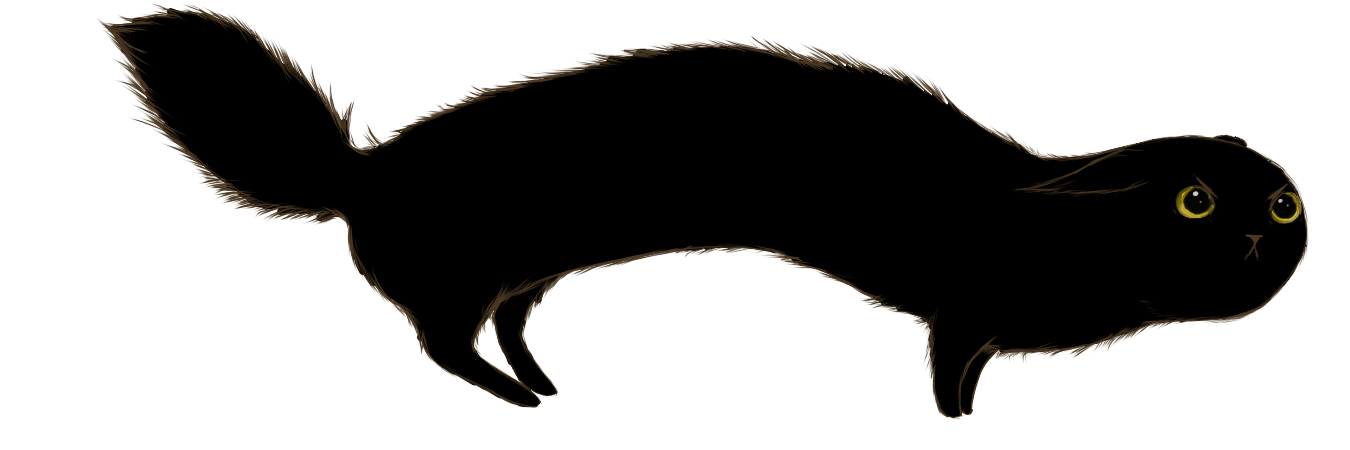
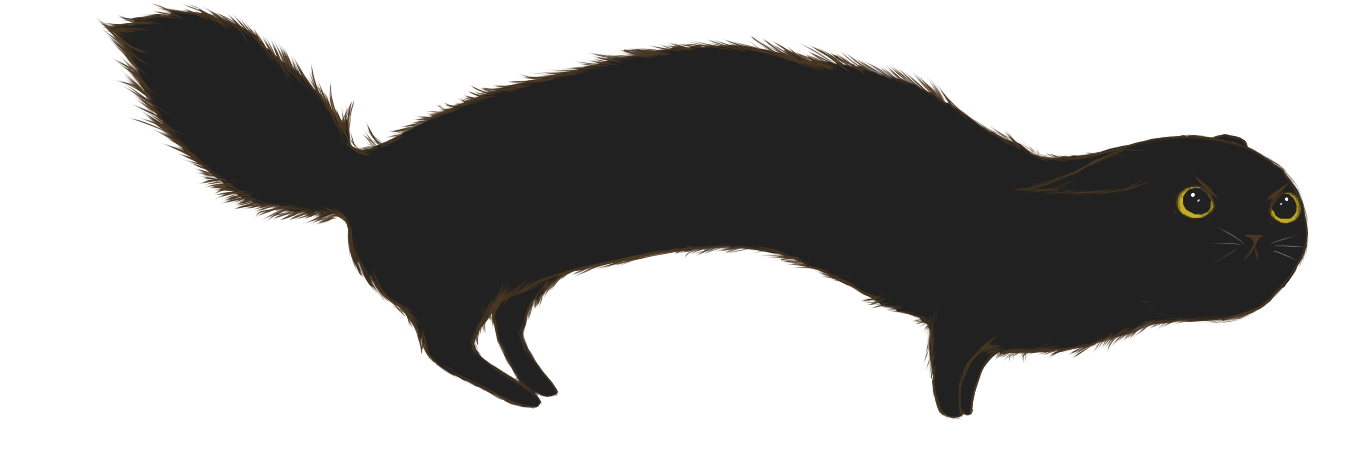
Added all cat images and extra effects and styles

diff --git a/src/main/resources/static/web/css/style.css b/src/main/resources/static/web/css/style.css
@@ -1,4 +1,5 @@
 @import url('https://fonts.googleapis.com/css?family=Poppins');
+@import url('https://fonts.googleapis.com/css?family=Delius&display=swap');
 
 body{
     font-family: 'Poppins', sans-serif;
@@ -29,7 +30,7 @@ body{
 }
 
 .bg-orange{
-    background-color: rgb(249, 210, 167)
+    background-color: rgb(255, 186, 158)
 }
 
 .bg-orange-primary{
@@ -41,7 +42,7 @@ body{
 }
 
 .text-orange-primary{
-    color: rgb(249, 165, 134) !important
+    color: rgb(255, 140, 102) !important
 }
 
 .game-bg{
@@ -76,18 +77,18 @@ body{
 
     overflow: hidden;
 
-    -webkit-animation: game-bg-anim 3s infinite;
-    animation: game-bg-anim 3s infinite;
+    -webkit-animation: game-bg-anim 2s infinite;
+    animation: game-bg-anim 2s infinite;
     animation-direction: alternate;
 }
 
 @keyframes game-bg-anim{
     0%{
-        background-color: rgb(249, 210, 167);
+        background-color: rgb(255, 186, 158);
     }
 
     100%{
-        background-color: rgb(255, 201, 143);
+        background-color: rgb(255, 197, 174);
     }
 }
 
@@ -251,12 +252,12 @@ body{
 }
 
 .ally-grid, .enemy-grid{
-    border: solid #ffa580 20px;
+    border: solid #ffa580 10px;
     border-radius: 20px;
     color: white;
     height: auto;
-    max-width: 535px;
-    min-width: 515px;
+    max-width: 515px;
+min-width: 515px;
     position: relative;
 
     transition: all 0.2s ease-in;
@@ -289,9 +290,8 @@ body{
     box-sizing: border-box;
     min-width: 45px;
     min-height: 45px;
-    border: 1px solid #ffffff;
+    border: 1px solid #ffffff3b;
     vertical-align: middle;
-    font-weight: bold;
     text-align: center;
     align-items: center;
     background-color: #f7936f;
@@ -301,11 +301,41 @@ body{
     margin: auto
 }
 .grid-marks{
-    background-color: #ff4502;
+    background-color: rgb(255, 140, 102);
+    font-family: 'Delius', cursive;
+    font-size: 20px;
 }
 
 .salvoed{
-    background-color: #ff7e7e;
+    background-color: #ffb07e;
+}
+
+.hit-anim{
+    animation: hit-animation 0.2s;
+}
+
+.miss-anim{
+    animation: miss-animation 0.2s;
+}
+
+@keyframes hit-animation{
+    0%{
+        background-color: white
+    }
+    
+    100%{
+        background-color: #b90000;
+    }
+
+}
+@keyframes miss-animation{
+    0%{
+        background-color: #ffceaf;
+    }
+
+    100%{
+        background-color: #ffb07e;
+    }
 }
 
 .bg-hit{
@@ -330,23 +360,23 @@ body{
 }
 
 .MeowriceHorizontal{
-    background-image: url(../img/cats/horizontal/Meowrice.jpg);
+    background-image: url(../img/cats/horizontal/Meowrice.png);
     background-size: contain;
     background-repeat: no-repeat;
 }
 .MeowriceVertical{
-    background-image: url(../img/cats/vertical/Meowrice.jpg);
+    background-image: url(../img/cats/vertical/Meowrice.png);
     background-size: contain;
     background-repeat: no-repeat;
 }
 
 .NashiroHorizontal{
-    background-image: url(../img/cats/horizontal/Nashiro.jpg);
+    background-image: url(../img/cats/horizontal/Nashiro.png);
     background-size: contain;
     background-repeat: no-repeat;
 }
 .NashiroVertical{
-    background-image: url(../img/cats/vertical/Nashiro.jpg);
+    background-image: url(../img/cats/vertical/Nashiro.png);
     background-size: contain;
     background-repeat: no-repeat;
 }
@@ -357,7 +387,7 @@ body{
     background-repeat: no-repeat;
 }
 .GeorgeVertical{
-    background-image: url(../img/cats/vertical/George.jpg);
+    background-image: url(../img/cats/vertical/George.png);
     background-size: contain;
     background-repeat: no-repeat;
 }
@@ -368,7 +398,7 @@ body{
     background-repeat: no-repeat;
 }
 .CoalyVertical{
-    background-image: url(../img/cats/vertical/Coaly.jpg);
+    background-image: url(../img/cats/vertical/Coaly.png);
     background-size: contain;
     background-repeat: no-repeat;
 }
@@ -378,7 +408,7 @@ body{
     background-repeat: no-repeat;
 }
 .OreoVertical{
-    background-image: url(../img/cats/vertical/Oreo.jpg);
+    background-image: url(../img/cats/vertical/Oreo.png);
     background-size: contain;
     background-repeat: no-repeat;
 }
@@ -415,7 +445,7 @@ body{
 }
 
 .dropdown-menu>a:hover{
-    background-color: #ffa1ad;
+    background-color: rgb(249, 165, 134);
     color: white;
 }
 

diff --git a/src/main/resources/static/web/js/game.js b/src/main/resources/static/web/js/game.js
@@ -618,7 +618,7 @@ var app = new Vue({
 
             let self = this
 
-            var locations = pets.map(sh => { return sh.locations })
+            var petLocations = pets.map(sh => { return sh.locations })
 
             playerSalvoes = salvoes.filter(function (sub) {
                 if (sub.player == self.gpId) {
@@ -654,10 +654,23 @@ var app = new Vue({
                         playersLastTurn=sub.turn
                     }
 
+                    let salvoHit = false
 
                     self.playerHits.forEach(function(hit){
                         if(sub.locations[loc] == hit.locHit){
                             cell.addClass('bg-hit')
+
+                            salvoHit = true
+
+                            if (self.player1.id == self.gpId) {
+                                if (sub.turn == self.turn - 1) {
+                                    cell.addClass('hit-anim')
+                                }
+                            } else {
+                                if (sub.turn == self.turn) {
+                                    cell.addClass('hit-anim')
+                                }
+                            }
 
                             if(hit.petHit == "Meowrice"){
                                 self.enemyPetsLeft.meowrice -= 1
@@ -672,6 +685,18 @@ var app = new Vue({
                             }
                         }
                     })
+
+                    if(!salvoHit){
+                        if (self.player1.id == self.gpId) {
+                            if (sub.turn == self.turn - 1) {
+                                cell.addClass('miss-anim')
+                            }
+                        } else {
+                            if (sub.turn == self.turn) {
+                                cell.addClass('miss-anim')
+                            }
+                        }
+                    }
                 }
             })
             enemySalvoes.forEach(function (sub) {
@@ -684,7 +709,9 @@ var app = new Vue({
 
                     cell.addClass('salvoed')
 
-                    locations.forEach(function (locs) {
+                    let salvoHit = false
+
+                    petLocations.forEach(function (locs) {
                         locs.forEach(function (loc) {
                             xAux = parseInt(loc.slice(1)) - 1
                             yAux = loc.charCodeAt(0) - 65
@@ -692,9 +719,33 @@ var app = new Vue({
 
                             if (xAux == x && yAux == y) {
                                 cell.addClass('bg-hit')
+
+                                salvoHit = true
+
+                                if(self.player1.id == self.gpId){
+                                    if(sub.turn == self.turn - 1){
+                                        cell.addClass('hit-anim')
+                                    }
+                                }else{
+                                    if(sub.turn == self.turn){
+                                        cell.addClass('hit-anim')
+                                    }
+                                }
                             }
                         })
                     })
+
+                    if(!salvoHit){
+                        if (self.player1.id == self.gpId) {
+                            if (sub.turn == self.turn - 1) {
+                                cell.addClass('miss-anim')
+                            }
+                        } else {
+                            if (sub.turn == self.turn) {
+                                cell.addClass('miss-anim')
+                            }
+                        }
+                    }
 
                     self.enemyHits.forEach(function(enHit){
                         if(enHit.locHit == sub.locations[loc]){

diff --git a/src/main/resources/static/web/games.html b/src/main/resources/static/web/games.html
@@ -4,7 +4,7 @@
     <meta charset="UTF-8">
     <meta name="viewport" content="width=device-width, initial-scale=1.0">
     <meta http-equiv="X-UA-Compatible" content="ie=edge">
-    <title>Salvo duracell</title>
+    <title>Kitten Wars - Games</title>
 
     <script src="https://kit.fontawesome.com/f6a1986fab.js"></script>
 
@@ -66,7 +66,7 @@
         <div id="content" class="animated fadeIn faster d-none pt-10">
 
             <nav class="navbar fixed-top navbar-light bg-vanilla-secondary">
-                <a class="navbar-brand" href="#">Kitty Wars</a>
+                <a class="navbar-brand" href="#">Kitten Wars</a>
                 <div></div>
                 <div class="nav-item dropdown" v-if="logged">
                     <a class="nav-link dropdown-toggle text-dark" href="#" id="user-dropdown" role="button" data-toggle="dropdown" aria-haspopup="true" aria-expanded="false">
@@ -199,7 +199,7 @@
                     </div>
                     <div class="modal-footer">
                         <button type="button" class="btn btn-secondary" data-dismiss="modal">Cancel</button>
-                        <button type="button" class="btn btn-orange-primary" @click="createNewGame()">Create</button>
+                        <button type="button" class="btn btn-orange-primary text-white" @click="createNewGame()">Create</button>
                     </div>
                 </div>
             </div>

diff --git a/src/main/resources/static/web/game.html b/src/main/resources/static/web/game.html
@@ -4,7 +4,7 @@
     <meta charset="UTF-8">
     <meta name="viewport" content="width=device-width, initial-scale=1.0">
     <meta http-equiv="X-UA-Compatible" content="ie=edge">
-    <title>Salvo Grid pero durisima</title>
+    <title>Kitten Wars</title>
 
     <!--FontAwesome-->
     <script src="https://kit.fontawesome.com/f6a1986fab.js"></script>
